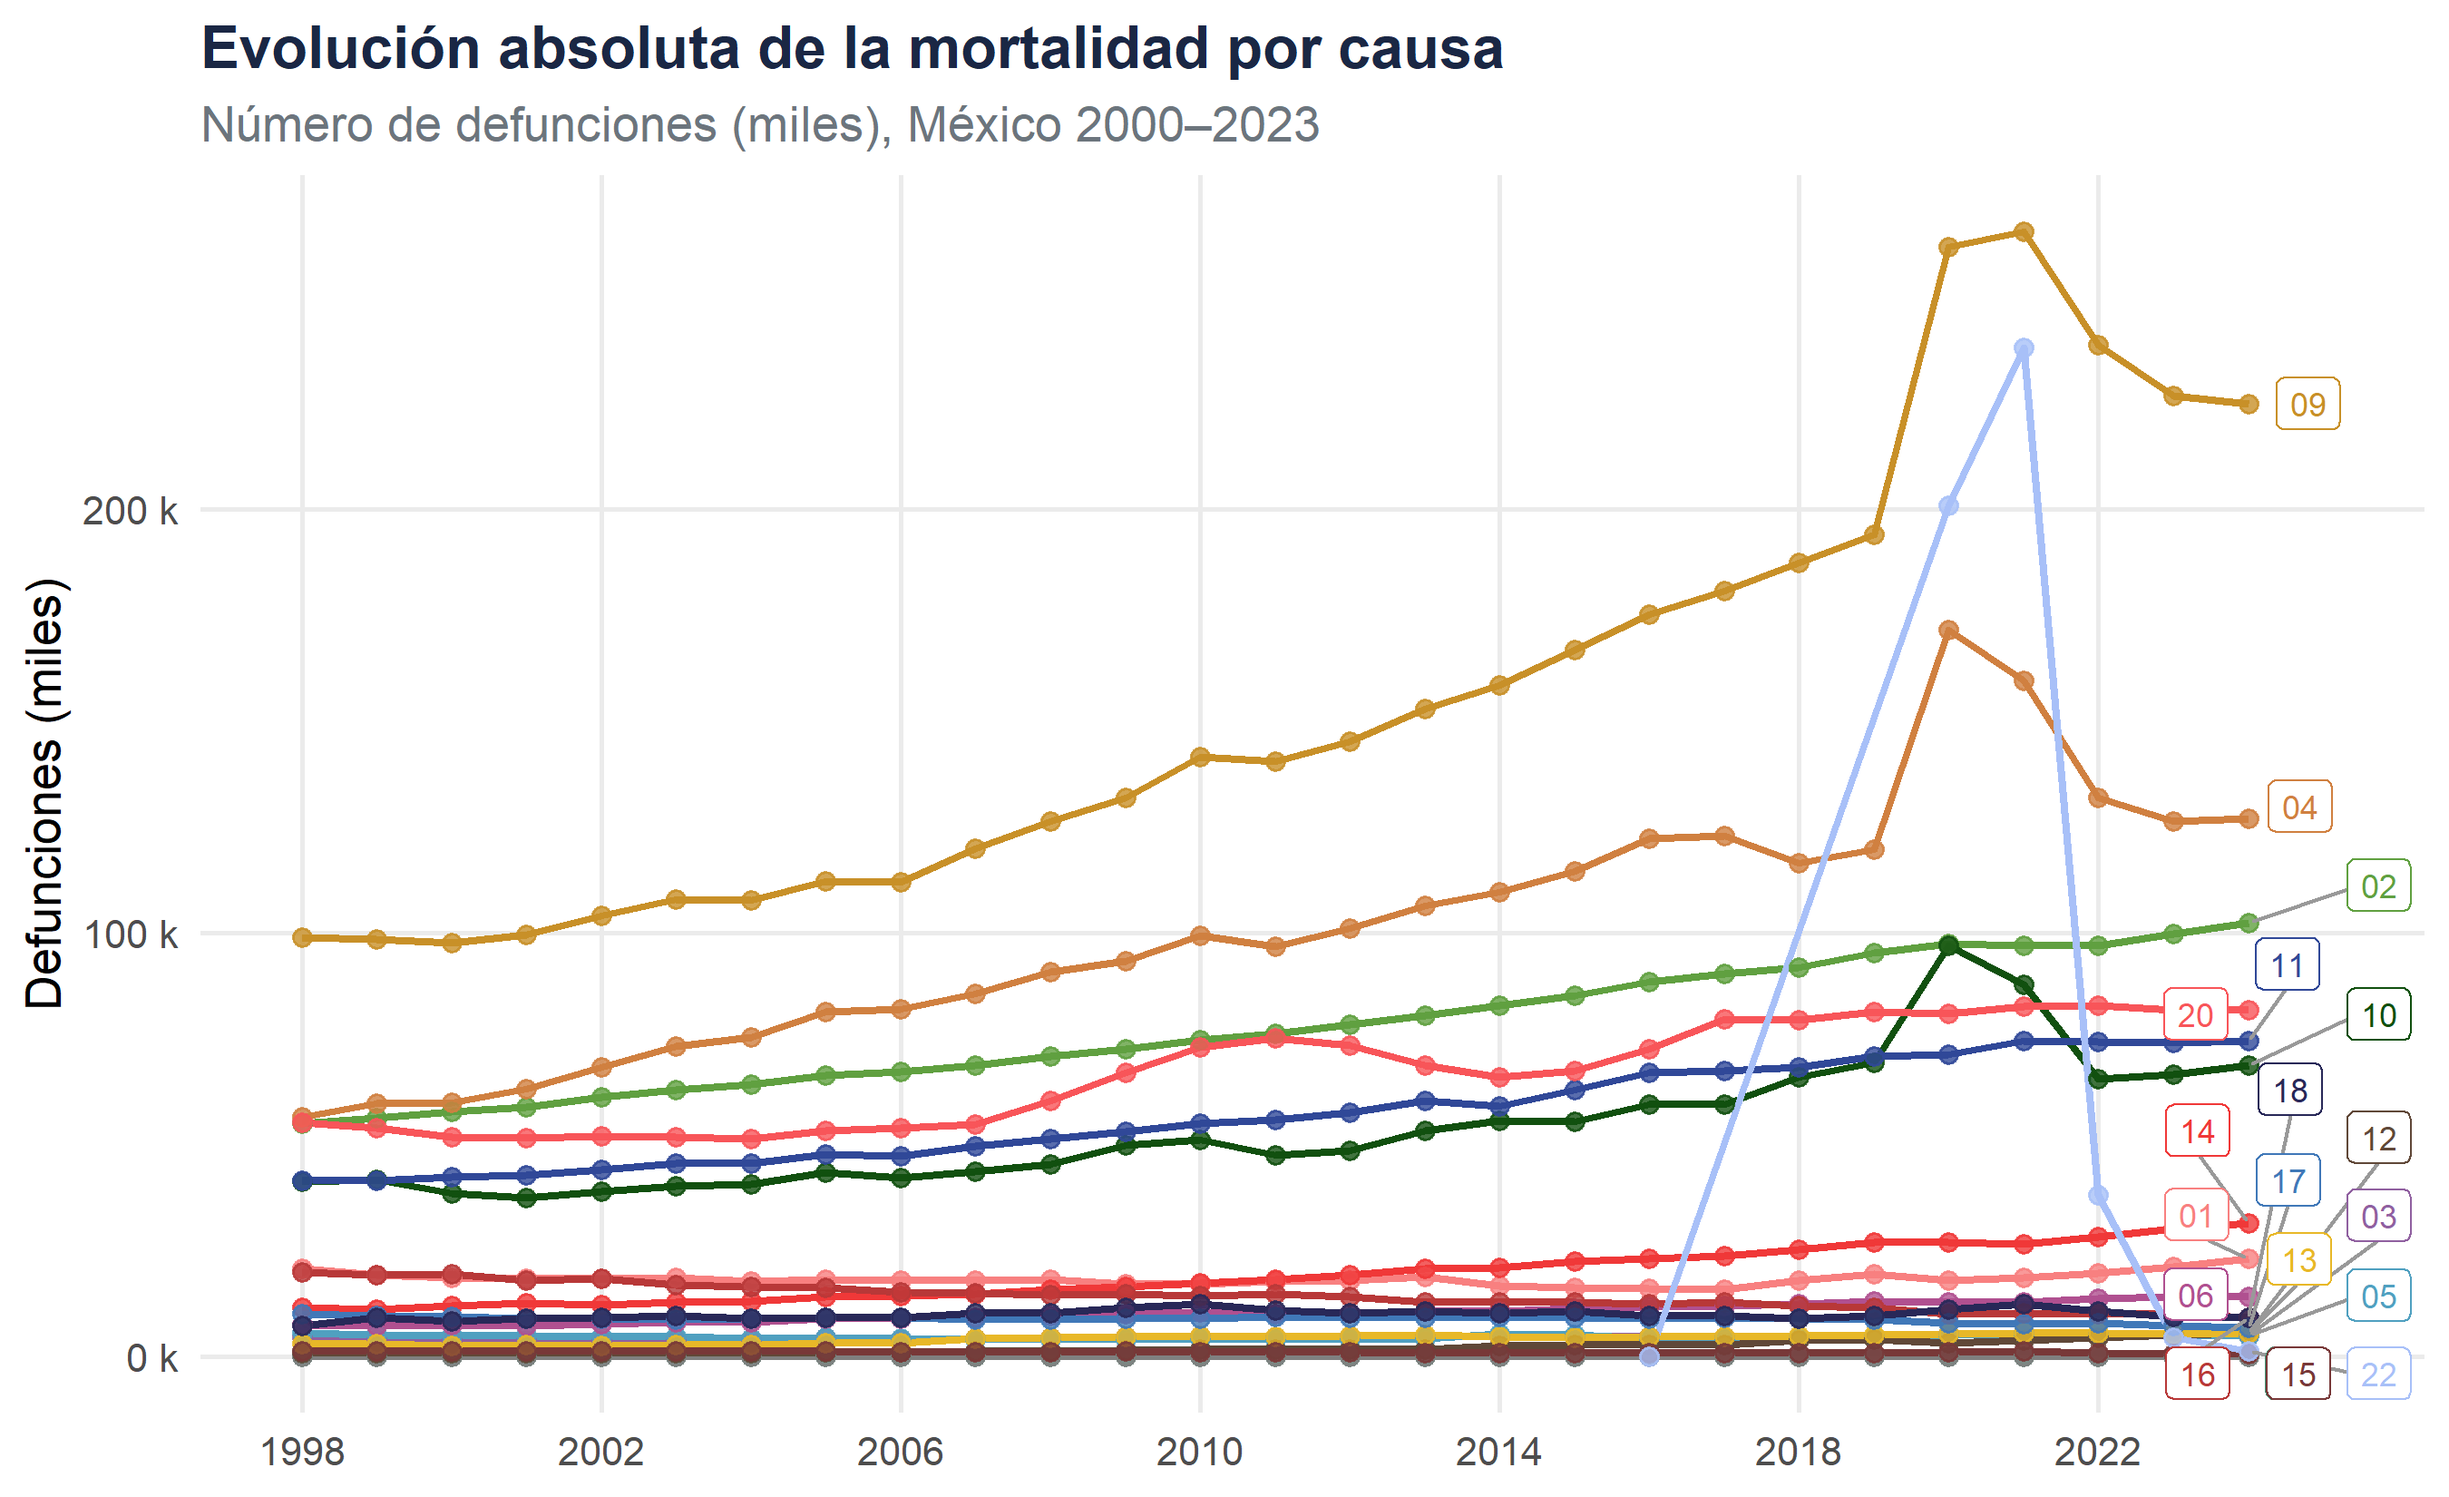
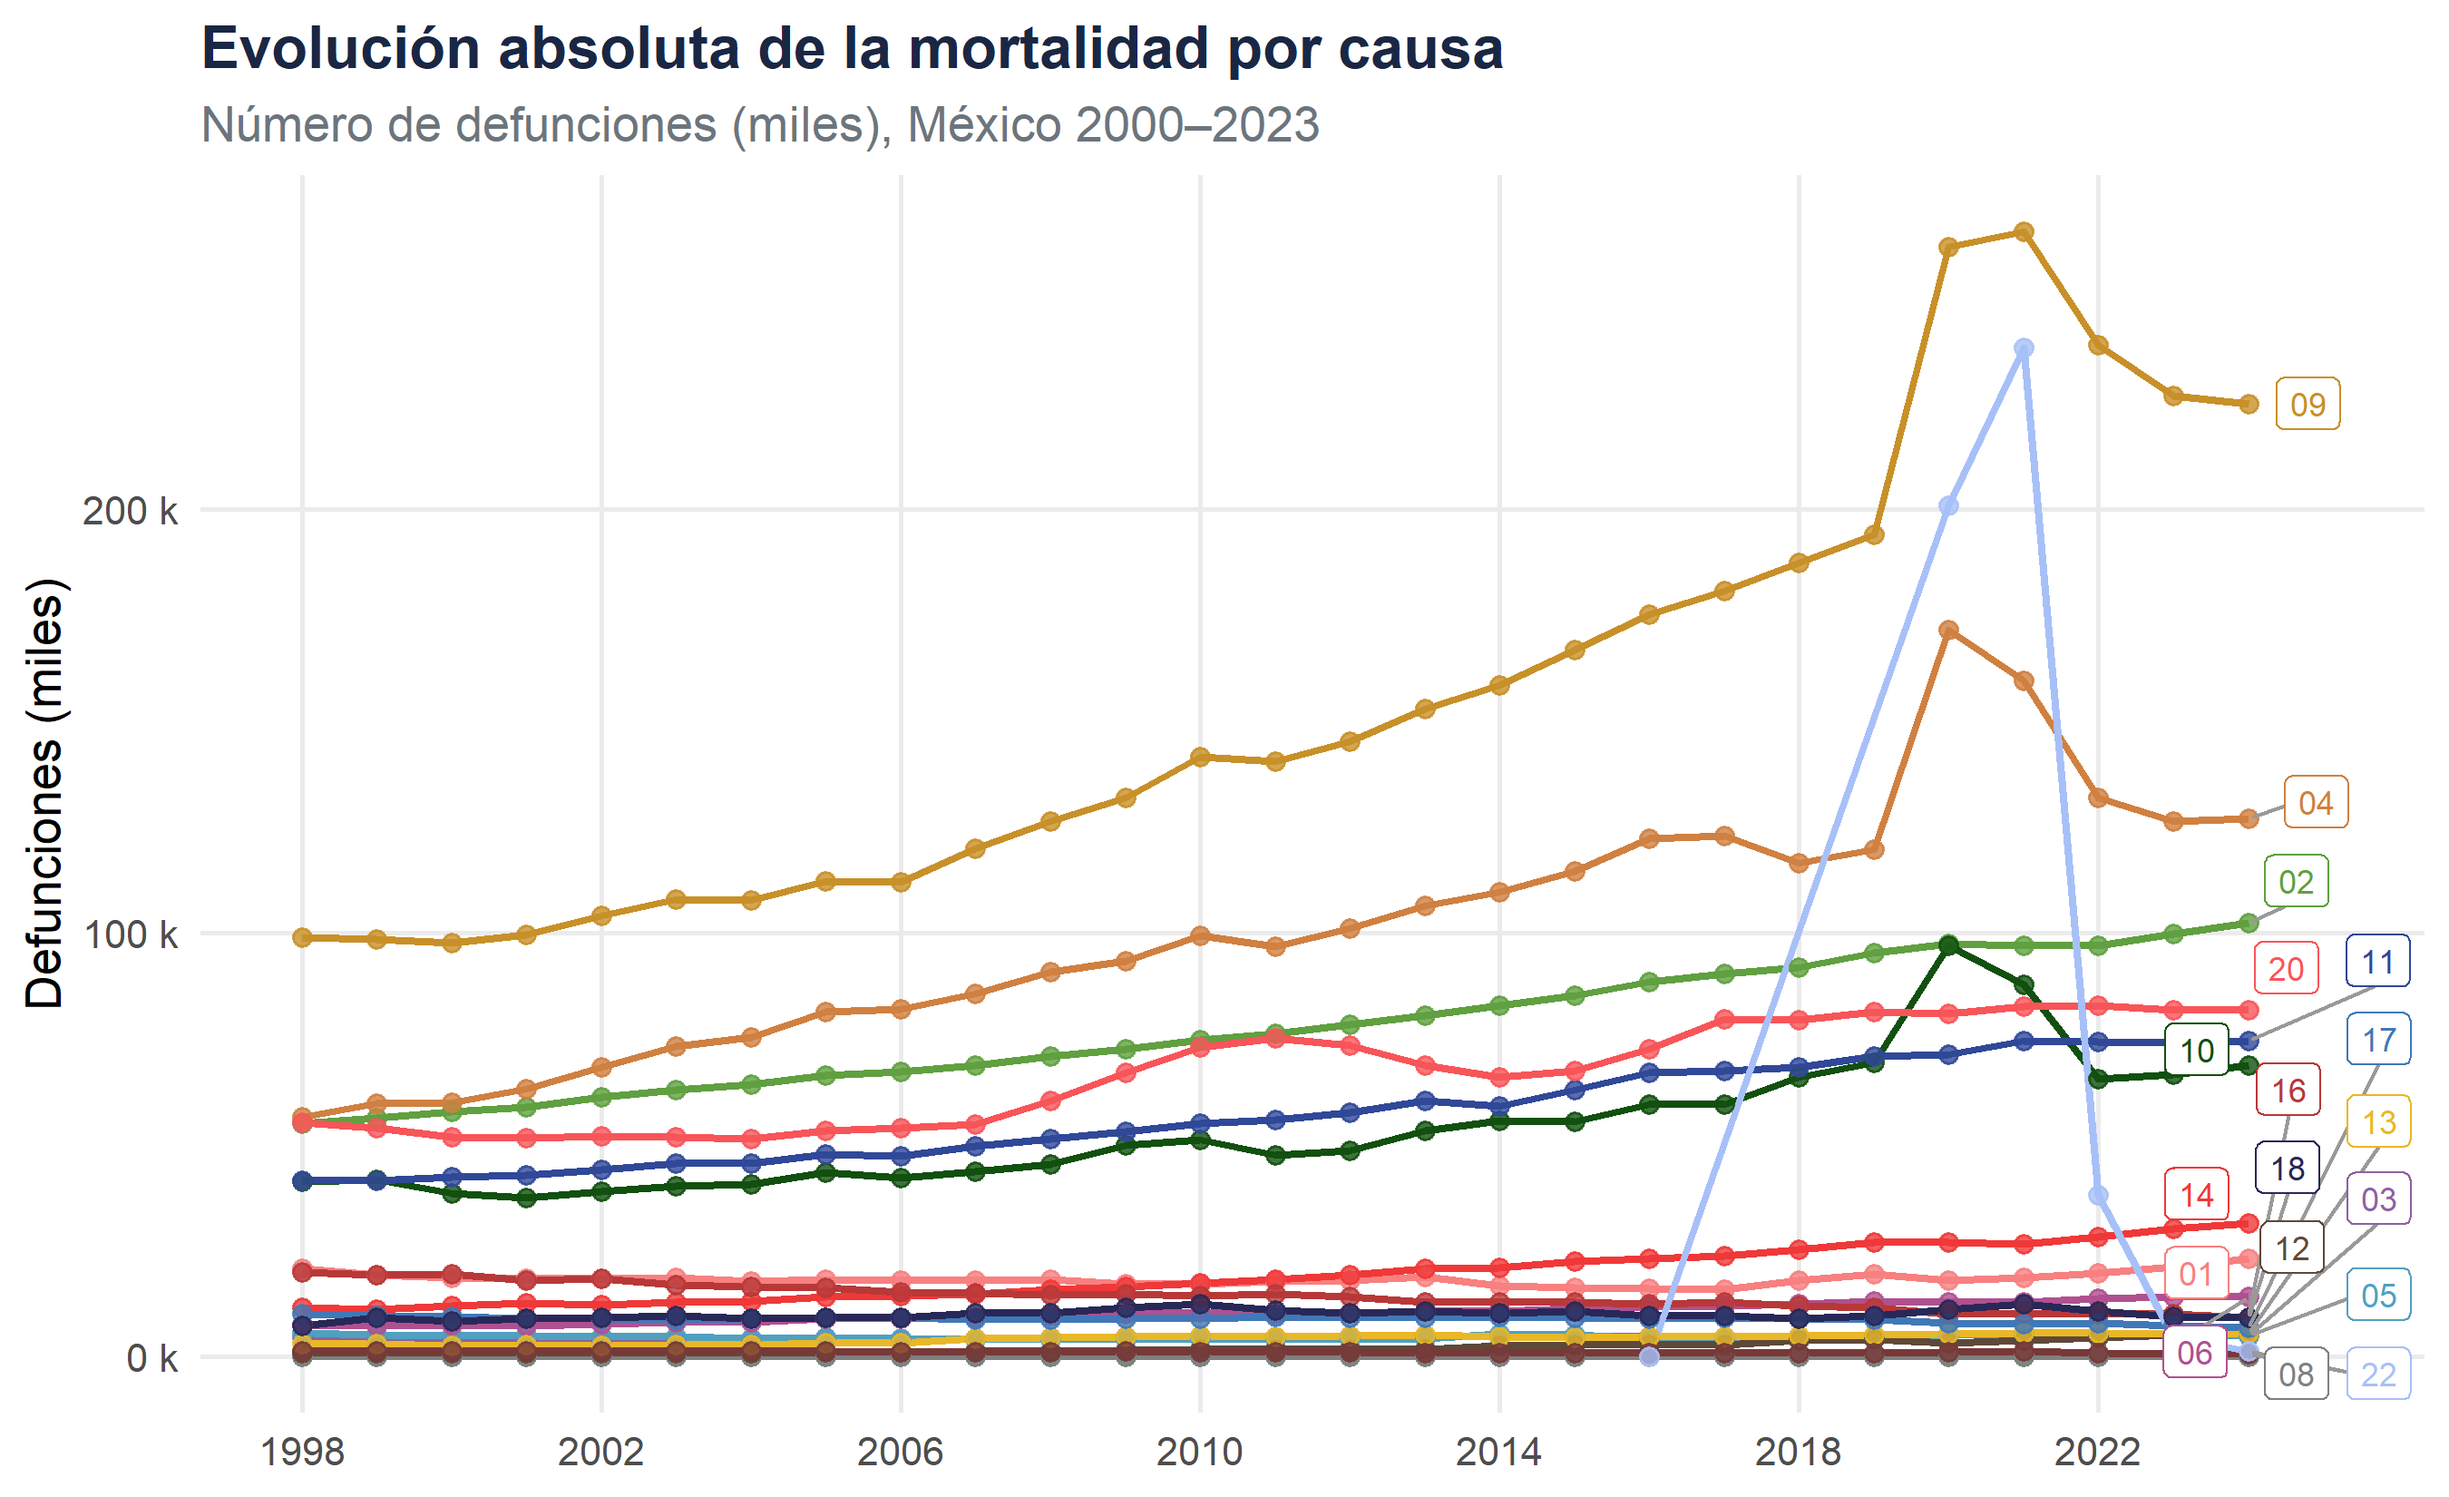
Initial commit

Changed region(s): [[0.8711, 0.5873, 0.9956, 0.9273], [0.9333, 0.5255, 0.9644, 0.5564]]

diff --git a/docs/en/A1_descriptive_general.html b/docs/en/A1_descriptive_general.html
@@ -6,7 +6,7 @@
 
 <meta name="viewport" content="width=device-width, initial-scale=1.0, user-scalable=yes">
 
-<meta name="dcterms.date" content="2026-05-21">
+<meta name="dcterms.date" content="2026-08-11">
 
 <title>1- General descriptive analysis – Mortality in Mexico</title>
 <style>
@@ -307,7 +307,7 @@ pre > code.sourceCode > span > a:first-child::before { text-decoration: underlin
     <div>
     <div class="quarto-title-meta-heading">Published</div>
     <div class="quarto-title-meta-contents">
-      <p class="date">May 21, 2026</p>
+      <p class="date">August 11, 2026</p>
     </div>
   </div>
   

diff --git a/docs/en/index.html b/docs/en/index.html
@@ -6,7 +6,7 @@
 
 <meta name="viewport" content="width=device-width, initial-scale=1.0, user-scalable=yes">
 
-<meta name="dcterms.date" content="2026-05-21">
+<meta name="dcterms.date" content="2026-08-11">
 
 <title>Mortality Analysis in Mexico – Mortality in Mexico</title>
 <style>
@@ -312,7 +312,7 @@ pre > code.sourceCode > span > a:first-child::before { text-decoration: underlin
     <div>
     <div class="quarto-title-meta-heading">Published</div>
     <div class="quarto-title-meta-contents">
-      <p class="date">May 21, 2026</p>
+      <p class="date">August 11, 2026</p>
     </div>
   </div>
   

diff --git a/docs/en/A5_maximum_disaggregation.html b/docs/en/A5_maximum_disaggregation.html
@@ -6,7 +6,7 @@
 
 <meta name="viewport" content="width=device-width, initial-scale=1.0, user-scalable=yes">
 
-<meta name="dcterms.date" content="2026-05-21">
+<meta name="dcterms.date" content="2026-08-11">
 
 <title>⑤ Maximum disaggregation – Mortality in Mexico</title>
 <style>
@@ -313,7 +313,7 @@ pre > code.sourceCode > span > a:first-child::before { text-decoration: underlin
     <div>
     <div class="quarto-title-meta-heading">Published</div>
     <div class="quarto-title-meta-contents">
-      <p class="date">May 21, 2026</p>
+      <p class="date">August 11, 2026</p>
     </div>
   </div>
   

diff --git a/docs/en/A4_territorial.html b/docs/en/A4_territorial.html
@@ -305,7 +305,7 @@ pre > code.sourceCode > span > a:first-child::before { text-decoration: underlin
     <div>
     <div class="quarto-title-meta-heading">Fecha de publicación</div>
     <div class="quarto-title-meta-contents">
-      <p class="date">21 de mayo de 2026</p>
+      <p class="date">11 de agosto de 2026</p>
     </div>
   </div>
   

diff --git a/docs/es/A4_territorial.html b/docs/es/A4_territorial.html
@@ -305,7 +305,7 @@ pre > code.sourceCode > span > a:first-child::before { text-decoration: underlin
     <div>
     <div class="quarto-title-meta-heading">Fecha de publicación</div>
     <div class="quarto-title-meta-contents">
-      <p class="date">21 de mayo de 2026</p>
+      <p class="date">11 de agosto de 2026</p>
     </div>
   </div>
   

diff --git a/docs/es/A5_maxima_desagregacion.html b/docs/es/A5_maxima_desagregacion.html
@@ -312,7 +312,7 @@ pre > code.sourceCode > span > a:first-child::before { text-decoration: underlin
     <div>
     <div class="quarto-title-meta-heading">Fecha de publicación</div>
     <div class="quarto-title-meta-contents">
-      <p class="date">21 de mayo de 2026</p>
+      <p class="date">11 de agosto de 2026</p>
     </div>
   </div>
   

diff --git a/docs/es/B1_regional.html b/docs/es/B1_regional.html
@@ -311,7 +311,7 @@ pre > code.sourceCode > span > a:first-child::before { text-decoration: underlin
     <div>
     <div class="quarto-title-meta-heading">Fecha de publicación</div>
     <div class="quarto-title-meta-contents">
-      <p class="date">21 de mayo de 2026</p>
+      <p class="date">11 de agosto de 2026</p>
     </div>
   </div>
   

diff --git a/docs/es/B3_espacial_municipios.html b/docs/es/B3_espacial_municipios.html
@@ -249,7 +249,7 @@ pre > code.sourceCode > span > a:first-child::before { text-decoration: underlin
     <div>
     <div class="quarto-title-meta-heading">Fecha de publicación</div>
     <div class="quarto-title-meta-contents">
-      <p class="date">21 de mayo de 2026</p>
+      <p class="date">11 de agosto de 2026</p>
     </div>
   </div>
   

diff --git a/docs/es/index.html b/docs/es/index.html
@@ -311,7 +311,7 @@ pre > code.sourceCode > span > a:first-child::before { text-decoration: underlin
     <div>
     <div class="quarto-title-meta-heading">Fecha de publicación</div>
     <div class="quarto-title-meta-contents">
-      <p class="date">21 de mayo de 2026</p>
+      <p class="date">11 de agosto de 2026</p>
     </div>
   </div>
   

diff --git a/docs/index.html b/docs/index.html
@@ -311,7 +311,7 @@ pre > code.sourceCode > span > a:first-child::before { text-decoration: underlin
     <div>
     <div class="quarto-title-meta-heading">Fecha de publicación</div>
     <div class="quarto-title-meta-contents">
-      <p class="date">21 de mayo de 2026</p>
+      <p class="date">11 de agosto de 2026</p>
     </div>
   </div>
   

diff --git a/docs/es/B2_espacial_estados.html b/docs/es/B2_espacial_estados.html
@@ -255,7 +255,7 @@ pre > code.sourceCode > span > a:first-child::before { text-decoration: underlin
     <div>
     <div class="quarto-title-meta-heading">Fecha de publicación</div>
     <div class="quarto-title-meta-contents">
-      <p class="date">mayo 2026</p>
+      <p class="date">agosto 2026</p>
     </div>
   </div>
   

diff --git a/docs/es/B1_Regional_description.html b/docs/es/B1_Regional_description.html
@@ -235,7 +235,7 @@ pre > code.sourceCode > span > a:first-child::before { text-decoration: underlin
     <div>
     <div class="quarto-title-meta-heading">Published</div>
     <div class="quarto-title-meta-contents">
-      <p class="date">May 2026</p>
+      <p class="date">August 2026</p>
     </div>
   </div>
   
